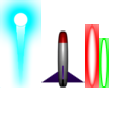
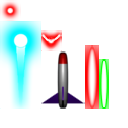
Bug fixes and balance tweek
*Minor bug fix, VERY rarly some ships got removed at spawn.
*Major bug fix, projectiles sometimes hit more then once.
--Also deleted some code that didnt get removed in a merge.
*Increased damage on All enemy sources.

diff --git a/Galaxy Defender/galaxy-defender/src/com/main/collisiondetection/CollisionDetection.java b/Galaxy Defender/galaxy-defender/src/com/main/collisiondetection/CollisionDetection.java
@@ -32,8 +32,6 @@ public class CollisionDetection {
 	
 	private static Projectile projectile;
 	
-	
-	
 	/**
 	 * Tests if obj1 and obj2 collided
 	 * @param movableObj1
@@ -50,8 +48,8 @@ public class CollisionDetection {
 	public static void checkCollisions(GameLogic gameLogic) {	
 		splitActors(gameLogic.getChildren());
 		checkcollisionProjectiles(gameLogic);
-		checkColisionShips(gameLogic);
-		checkCollisionDummies(gameLogic);
+		checkCollisionPlayerEnemy(gameLogic);
+		checkCollisionDummiesAll(gameLogic);
 	}
 	
 	/**
@@ -114,38 +112,11 @@ public class CollisionDetection {
 					}
 				}
 			}
-			
-			//Look att all different targets
-			for(TargetTypes affected : projectile.getTargetTypes()){
-				switch(affected){
-					case PLAYER:
-						//Removes player on collision with projectile
-						if(collisionControl(projectile, gameLogic.playerShip)){
-							projectile.addOnHitEffect();
-							gameLogic.playerCollision(projectile.getOnHitDamage());	
-						}
-						break;
-					case ENEMY:
-						iterES = enemyShips.iterator();
-						while(iterES.hasNext()){
-							EnemyShip enemyShip = iterES.next();
-							//Removes projectiles and enemies that collided
-							if (collisionControl(enemyShip, projectile) && projectile.getParent() != null) {
-								projectile.addOnHitEffect();
-								gameLogic.addScore(enemyShip.hit(projectile.getOnHitDamage()));
-								iterES.remove();
-							}	
-						}
-						break;
-					case ALLY:
-						break;
-				}
-			}	
 		}
 	}
 	
 	/**
-	 * Checks collision between all projectiles
+	 * Checks collision between all projectiles and ships
 	 * @param gameLogic
 	 */
 	private static void checkcollisionProjectiles(GameLogic gameLogic) {
@@ -155,15 +126,15 @@ public class CollisionDetection {
 			checkCollisionBetweenProjectiles(affectsEnemyProjectiles.iterator(), TargetTypes.ENEMY, gameLogic);
 			checkCollisionBetweenProjectiles(affectsPlayerProjectiles.iterator(), TargetTypes.PLAYER, gameLogic);
 			checkCollisionBetweenProjectiles(affectsAllyProjectiles.iterator(),TargetTypes.ALLY, gameLogic);
-			checkCollisionShips(gameLogic);
+			checkCollisionShipsProjectile(gameLogic);
 		}
 	}
 
 	/**
-	 * CHecks collision between ships
+	 * Looks if anything is inside of the area of effect of the dummy
 	 * @param gameLogic
 	 */
-	private static void checkCollisionDummies(GameLogic gameLogic) {
+	private static void checkCollisionDummiesAll(GameLogic gameLogic) {
 		//If any area of effect weapons where triggered
 		iterAD = dummies.iterator();
 		while(iterAD.hasNext()){
@@ -191,18 +162,18 @@ public class CollisionDetection {
 	}
 
 	/**
-	 * Check if player collides with enemy
+	 * Loops through all enemies and sees if the have collided with player
 	 * @param gameLogic
 	 */
-	private static void checkColisionShips(GameLogic gameLogic) {
+	private static void checkCollisionPlayerEnemy(GameLogic gameLogic) {
 		iterES = enemyShips.iterator();
 		while (iterES.hasNext()) {
 		EnemyShip enemyShip = iterES.next();
 		
 			//Check for collision with player
 			if(collisionControl(enemyShip, gameLogic.playerShip)) {	
-				enemyShip.addOnHitEffect();
-				gameLogic.playerCollision(enemyShip.getOnHitDamage());
+				gameLogic.playerCollision(enemyShip.getDamageWhenRammed());
+				enemyShip.destroyShip();
 			}
 		}
 	}
@@ -211,25 +182,26 @@ public class CollisionDetection {
 	 * Check collision between ships and projectiles
 	 * @param gameLogic
 	 */
-	private static void checkCollisionShips(GameLogic gameLogic) {
+	private static void checkCollisionShipsProjectile(GameLogic gameLogic) {
 		//Look att all different targets
 		for(TargetTypes affected : projectile.getTargetTypes()){
 			switch(affected){
 				case PLAYER:
-					//Removes player on collision with projectile
-					if(collisionControl(projectile, gameLogic.playerShip)){
-						
+					//Collision between player and projectile
+					if(collisionControl(projectile, gameLogic.playerShip ) && projectile.getParent() != null){
+						gameLogic.playerCollision(projectile.getOnHitDamage());
+						projectile.addOnHitEffect();
+						break;
 					}
 					break;
 				case ENEMY:
 					iterES = enemyShips.iterator();
 					while(iterES.hasNext()){
 						EnemyShip enemyShip = iterES.next();
-						//Removes projectiles and enemies that collided
+						//Collision between enemy and projectile
 						if (collisionControl(enemyShip, projectile) && projectile.getParent() != null) {
-							projectile.addOnHitEffect();
 							gameLogic.addScore(enemyShip.hit(projectile.getOnHitDamage()));
-							iterES.remove();
+							projectile.addOnHitEffect();
 							break;
 						}	
 					}

diff --git a/Galaxy Defender/galaxy-defender/src/com/main/assets/ImageAssets.java b/Galaxy Defender/galaxy-defender/src/com/main/assets/ImageAssets.java
@@ -24,6 +24,7 @@ public class ImageAssets {
 	public static TextureRegion playerMissile;
 	public static TextureRegion topInfoBar;
 	public static Array<TextureRegion> explosionAnimation;
+	public static Array<TextureRegion> enemyLaserAnimation;
 
 	/**
 	 * Loads all assets from imageAtlas
@@ -33,11 +34,12 @@ public class ImageAssets {
 		atlas = new TextureAtlas(Gdx.files.internal("images.atlas"));
 		
 		explosionAnimation = new Array<TextureRegion>();
+		enemyLaserAnimation = new Array<TextureRegion>();
 		playerShip = atlas.findRegion("Ships/PlayerShip");
 		playerLaser = atlas.findRegion("weapons/greenLaser");
 		enemyLaser = atlas.findRegion("weapons/redLaser");
 		enemyBasicShip = atlas.findRegion("Ships/Ship1");
-		enemyScoutShip = atlas.findRegion("Ships/Ship2");
+		enemyScoutShip = atlas.findRegion("Ships/Ship3");
 		enemyHeavyShip = atlas.findRegion("Ships/Ship25");
 		playerMissile = atlas.findRegion("weapons/Missile1");
 		topInfoBar = atlas.findRegion("TopInfoBar");
@@ -45,14 +47,13 @@ public class ImageAssets {
 		moveRightButton = atlas.findRegion("Arrow_Right");
 		moveLeftButton = atlas.findRegion("Arrow_Left");
 		
+		for(int i = 1; i <= 2 ; i++){
+			enemyLaserAnimation.add(atlas.findRegion("weapons/redLaserHit" + i));
+		}
+		
 		for(int i = 1; i <= 17 ; i++){
 			explosionAnimation.add(atlas.findRegion("explosion1 Frames/ExplosionFrame" + i));
 		}
-
-		
-//		moveRightButton = new TextureRegion ( new Texture(Gdx.files.internal("Arrow_Right.png")));
-//		moveLeftButton = new TextureRegion ( new Texture(Gdx.files.internal("Arrow_Left.png")));
-//		space = new TextureRegion ( new Texture(Gdx.files.internal("space-1.png")));
 	}
 	/**
 	 * Disposes all atlases from memory

diff --git a/Galaxy Defender/galaxy-defender/src/com/main/ships/ScoutShip.java b/Galaxy Defender/galaxy-defender/src/com/main/ships/ScoutShip.java
@@ -12,16 +12,16 @@ import spacegame.GameScreen;
 public class ScoutShip extends EnemyShip{
 	
 	public final static int HEIGHT = 40;
-	public final static int WIDTH = 40;
+	public final static int WIDTH = 35;
 	private final static float SHIPSPEED_X = 2.0f;
 	private final static float SHIPSPEED_Y = 2.5f;
 	private final static int HEALTH=1;
 	private final static int SCOREVALUE=2;
 	
-	private boolean movingLeft = true;
+	private boolean movingLeft;
 	private final float movmentLenght = 50;
 	private float currentMovmentLenght;
-	private static final int DAMAGE_ON_HIT = 2;
+	private static final int DAMAGE_WHEN_RAMMED = 10;
 	
 	/**
 	 * 
@@ -29,8 +29,9 @@ public class ScoutShip extends EnemyShip{
 	 * @param y
 	 */
 	public ScoutShip(float x, float y){
-		super(x, y, WIDTH, HEIGHT, HEALTH, SCOREVALUE, ImageAssets.enemyScoutShip, DAMAGE_ON_HIT);
+		super(x, y, WIDTH, HEIGHT, HEALTH, SCOREVALUE, ImageAssets.enemyScoutShip, DAMAGE_WHEN_RAMMED);
 		currentMovmentLenght = 0;
+		movingLeft = true;
 		setRotation(-45);
 	}
 		
@@ -45,21 +46,20 @@ public class ScoutShip extends EnemyShip{
 		if(movingLeft){
 			if(getX() < 0 || currentMovmentLenght > movmentLenght){
 				setRotation(45);
-				currentMovmentLenght = 0;
 				movingLeft = false;
+				currentMovmentLenght = 0;
 			}
 			setX(getX()-SHIPSPEED_X);
-			currentMovmentLenght++;
 		}
 		else {
 			if(getX() > GameScreen.GAME_WITDH-WIDTH || currentMovmentLenght > movmentLenght){
 				setRotation(-45);
-				currentMovmentLenght = 0;
 				movingLeft = true;
+				currentMovmentLenght = 0;
 			}
 			setX(getX()+SHIPSPEED_X);
-			currentMovmentLenght++;
 		}
+		currentMovmentLenght++;
 	}
 	/**
 	 *  removes the ship

diff --git a/Galaxy Defender/galaxy-defender/src/com/main/ships/EnemyShip.java b/Galaxy Defender/galaxy-defender/src/com/main/ships/EnemyShip.java
@@ -16,7 +16,7 @@ public abstract class EnemyShip extends Sprite{
 	protected int scoreValue;
 	protected int health;
 	public static enum EnemyTypes {HEAVY, BASIC, SCOUT};
-	public int damageOnHit;
+	public int damageWhenRammed;
 	
 	/**
 	 * 
@@ -29,11 +29,11 @@ public abstract class EnemyShip extends Sprite{
 	 * @param texture The image of the enemy
 	 * @param damageOnHit The damage per hit
 	 */
-	public EnemyShip(float x, float y, float width, float height, int health, int scoreValue, TextureRegion texture, int damageOnHit) {
+	public EnemyShip(float x, float y, float width, float height, int health, int scoreValue, TextureRegion texture, int damageWhenRammed) {
 		super(width, height, x, y, texture);
 		this.health = health;
-		this.scoreValue=scoreValue;
-		this.damageOnHit = damageOnHit;
+		this.scoreValue = scoreValue;
+		this.damageWhenRammed = damageWhenRammed;
 	}
 	
 	/**
@@ -42,7 +42,7 @@ public abstract class EnemyShip extends Sprite{
 	public int hit(int damage) {
 		health = health - damage;
 		if (health<=0){
-			remove();
+			destroyShip();
 			return scoreValue;
 		}
 		return 0;
@@ -56,16 +56,16 @@ public abstract class EnemyShip extends Sprite{
 	}
 	
 	/**
-	 * @return The damage of the enemy
+	 * @return The damage of the enemy when rammed
 	 */
-	public int getOnHitDamage() {
-		return damageOnHit;
+	public int getDamageWhenRammed() {
+		return damageWhenRammed;
 	}
 	
 	/**
 	 *  removes the ship
 	 */
-	public void addOnHitEffect() {
+	public void destroyShip() {
 		remove();
 	}
 }

diff --git a/Galaxy Defender/galaxy-defender/src/com/main/spacegame/GameLogic.java b/Galaxy Defender/galaxy-defender/src/com/main/spacegame/GameLogic.java
@@ -67,6 +67,7 @@ public class GameLogic extends Table {
 	 */
 	@Override
 	public void act(float delta) {
+		super.act(delta);
 		if (life<1) {	//For testing
 			currentScore=0;
 			clear();
@@ -79,8 +80,6 @@ public class GameLogic extends Table {
 		if (gameScreen.getOptionAutoShoot() || shooting) playerShip.spawnPlayerProjectile();//For testing TODO:Should prob be in playerShip act
 		OutOfBoundsDetection.checkOutOfBounds(getChildren());
 		CollisionDetection.checkCollisions(this);
-		
-		super.act(delta);
 	}
 	
 	
@@ -113,7 +112,7 @@ public class GameLogic extends Table {
 	private void spawnPattern(){		
 		float spawnLocation = MathUtils.random(0,GameScreen.GAME_WITDH-ScoutShip.WIDTH);
 		float xPos = spawnLocation;
-		addActor(new SpawnPattern(xPos, GameScreen.GAME_HEIGHT, 5, 200000000f, EnemyTypes.SCOUT));
+		addActor(new SpawnPattern(xPos, GameScreen.GAME_HEIGHT, 5, 225000000f, EnemyTypes.SCOUT));
 		lastSpawnPatternTime = TimeUtils.nanoTime();
 	}
 	/**

diff --git a/Galaxy Defender/galaxy-defender/src/com/main/ships/HeavyShip.java b/Galaxy Defender/galaxy-defender/src/com/main/ships/HeavyShip.java
@@ -25,7 +25,7 @@ public class HeavyShip extends EnemyShip {
 	private final static int HEALTH=2;
 	
 	private float lastMissileTime;
-	private static final int DAMAGE_ON_HIT = 10;
+	private static final int DAMAGE_WHEN_RAMMED = 30;
 	
 	/**
 	 * Constructor
@@ -34,7 +34,7 @@ public class HeavyShip extends EnemyShip {
 	 * sets a random shoot time for first shoot
 	 */
 	public HeavyShip(float x, float y) {
-		super(x, y, WIDTH, HEIGHT, HEALTH, SCOREVALUE, ImageAssets.enemyHeavyShip, DAMAGE_ON_HIT);
+		super(x, y, WIDTH, HEIGHT, HEALTH, SCOREVALUE, ImageAssets.enemyHeavyShip, DAMAGE_WHEN_RAMMED);
 		lastMissileTime = TimeUtils.nanoTime() - 2*MathUtils.random(0,EnemyLaser.RATEOFFIRE);
 	}
 	

diff --git a/Galaxy Defender/galaxy-defender/src/com/main/ships/BasicShip.java b/Galaxy Defender/galaxy-defender/src/com/main/ships/BasicShip.java
@@ -17,7 +17,7 @@ public class BasicShip extends EnemyShip {
 	
 	public final static int HEIGHT=40;
 	public final static int WIDTH=40;
-	private static final int DAMAGE_ON_HIT = 5;
+	private static final int DAMAGE_WHEN_RAMMED = 15;
 
 	
 	
@@ -27,7 +27,7 @@ public class BasicShip extends EnemyShip {
 	 * @param y y-led Spawn location
 	 */
 	public BasicShip(float x, float y) {
-		super(x, y, WIDTH, HEIGHT, HEALTH, SCOREVALUE, ImageAssets.enemyBasicShip, DAMAGE_ON_HIT);
+		super(x, y, WIDTH, HEIGHT, HEALTH, SCOREVALUE, ImageAssets.enemyBasicShip, DAMAGE_WHEN_RAMMED);
 	}
 
 	

diff --git a/Galaxy Defender/galaxy-defender/src/com/main/collisiondetection/OutOfBoundsDetection.java b/Galaxy Defender/galaxy-defender/src/com/main/collisiondetection/OutOfBoundsDetection.java
@@ -14,7 +14,7 @@ public class OutOfBoundsDetection {
 	 * @return	returns true if out of bounds
 	 */
 	public static void isOutOfBoundsY(MovableEntity movableObj){
-		if (movableObj.getBounds().y < -movableObj.getBounds().getHeight() || movableObj.getBounds().y >= 
+		if (movableObj.getBounds().y < -movableObj.getBounds().getHeight() || movableObj.getBounds().y > 
 				GameScreen.GAME_HEIGHT+movableObj.getBounds().getHeight()){
 			movableObj.remove();
 		}

diff --git a/Galaxy Defender/galaxy-defender/src/com/main/weapons/EnemyLaser.java b/Galaxy Defender/galaxy-defender/src/com/main/weapons/EnemyLaser.java
@@ -16,7 +16,7 @@ public class EnemyLaser extends Projectile {
 	private static final float SPEED = 6f;
 	public static final float HEIGHT = 10;
 	public static final float WIDTH = 3;
-	private static final int DAMAGE_ON_HIT = 1;
+	private static final int DAMAGE_ON_HIT = 15;
 	private static final TargetTypes FACTION = TargetTypes.ENEMY;
 	private static final TargetTypes[] AFFECTEDTARGETS = {TargetTypes.PLAYER, TargetTypes.PLAYER_PROJECTILE};
 	
